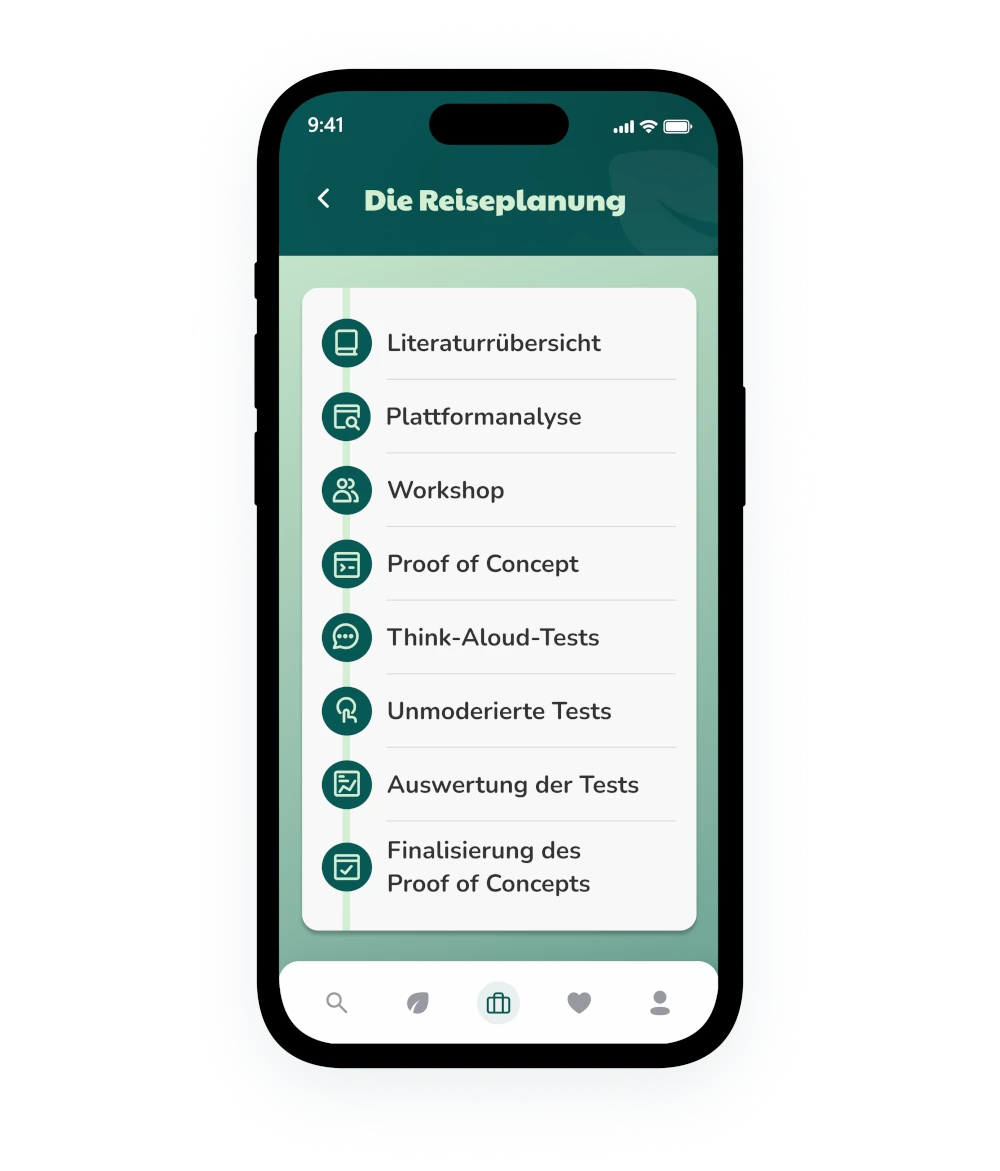
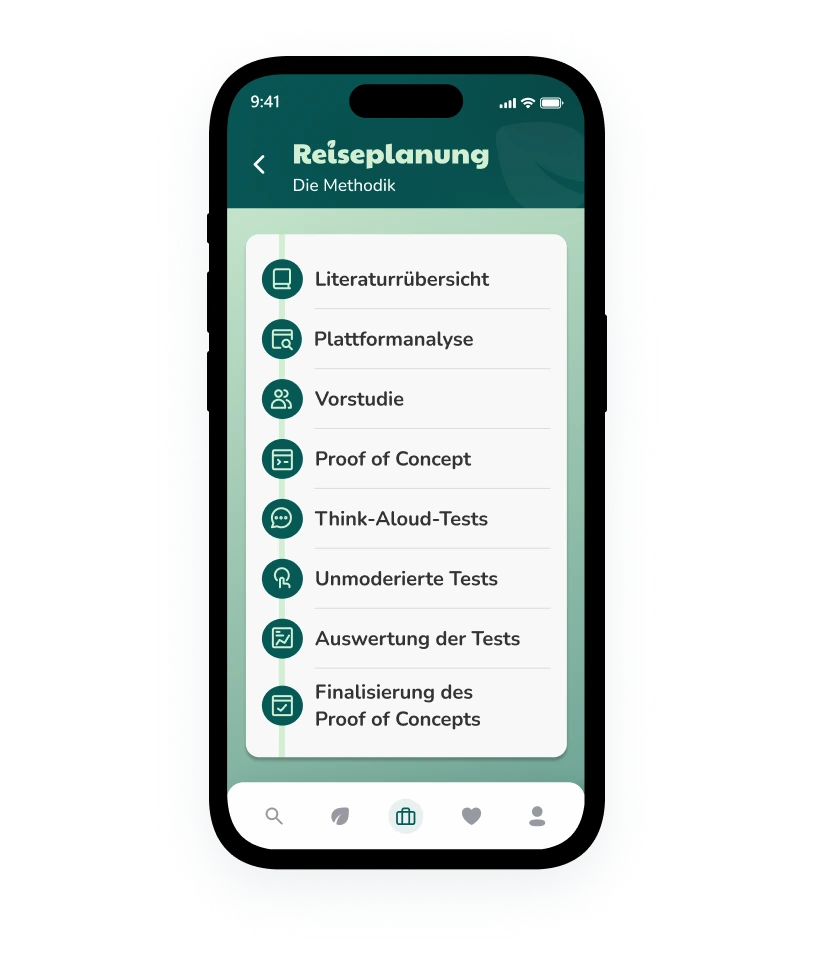
feat: increase image sizes for wegweiser project details

diff --git a/lib/data.ts b/lib/data.ts
@@ -201,6 +201,7 @@ export const getProjectsData = (theme: string, t: (key: string) => string) => {
           text: [t("wegweiser.project.text.0"), t("wegweiser.project.text.1")],
           className: "bg-[#C3E6C3]",
           image: wegweiserMockup,
+          imageSize: "66%",
           cta: {
             title: t("wegweiser.project.cta"),
             link: "https://www.figma.com/proto/S0Qw8J37oW2tqsQ4Z8zHFp/Wegweiser-Prototyp?page-id=0%3A1&node-id=1812-17049&p=f&viewport=2314%2C3786%2C0.25&t=EGEinzUgtU9q5SbF-1&scaling=contain&content-scaling=fixed&starting-point-node-id=1812%3A17049"
@@ -211,24 +212,28 @@ export const getProjectsData = (theme: string, t: (key: string) => string) => {
           text: [t("wegweiser.problem.text.0"), t("wegweiser.problem.text.1"), t("wegweiser.problem.text.2")],
           className: "bg-[#CBEBCB]",
           image: theme === "light" ? wegweiserEmissions : wegweiserEmissionsDark,
+          imageSize: "55%",
         },
         {
           title: t("wegweiser.research.title"),
           text: [t("wegweiser.research.text.0"), t("wegweiser.research.text.1"), t("wegweiser.research.text.2"), t("wegweiser.research.text.3"), t("wegweiser.research.text.4")],
           className: "bg-[#D8F0D8]",
           image: wegweiserGamification,
+          imageSize: "60%",
         },
         {
           title: t("wegweiser.concept.title"),
           text: [t("wegweiser.concept.text.0"), t("wegweiser.concept.text.1")],
           className: "bg-[#E8F6E8]",
           image: wegweiserReiseplanung,
+          imageSize: "55%",
         },
         {
           title: t("wegweiser.prototyping.title"),
           text: [t("wegweiser.prototyping.text.0"), t("wegweiser.prototyping.text.1")],
           className: "bg-[#F1F9F1]",
           image: wegweiserLofi,
+          imageSize: "60%",
           cta: {
             title: t("wegweiser.prototyping.cta"),
             link: "https://www.figma.com/proto/4S2TZpeqYYlSbFCEKR8ngC/wegweiserapp?page-id=0%3A1&node-id=72-79940&p=f&viewport=728%2C824%2C0.13&t=gSK4aPhltc7LKfwT-1&scaling=min-zoom&content-scaling=fixed&starting-point-node-id=72%3A79940"
@@ -239,12 +244,14 @@ export const getProjectsData = (theme: string, t: (key: string) => string) => {
           text: [t("wegweiser.interventions.text.0"), t("wegweiser.interventions.text.1")],
           className: "bg-[#E8F6E8]",
           image: wegweiserHifi,
+          imageSize: "60%",
         },
         {
           title: t("wegweiser.branding.title"),
           text: [t("wegweiser.branding.text.0"), t("wegweiser.branding.text.1")],
           className: "bg-[#D8F0D8]",
           image: theme === "light" ? wegweiserLogo : wegweiserLogoDark,
+          imageSize: "55%",
           cta: {
             title: t("wegweiser.branding.cta"),
             link: "https://drive.google.com/file/d/1hRpP2D-IXTZfvWAHtTCllIeyVkC0Q0RO/view"
@@ -261,12 +268,14 @@ export const getProjectsData = (theme: string, t: (key: string) => string) => {
           text: [t("wegweiser.onlineTests.text.0"), t("wegweiser.onlineTests.text.1")],
           className: "bg-[#CBEBCB]",
           image: wegweiserUseberry,
+          imageSize: "60%",
         },
         {
           title: t("wegweiser.thinkAloud.title"),
           text: [t("wegweiser.thinkAloud.text.0"), t("wegweiser.thinkAloud.text.1")],
           className: "bg-[#D8F0D8]",
           image: wegweiserExcercise,
+          imageSize: "60%",
         },
         {
           title: t("wegweiser.results.title"),
@@ -279,6 +288,7 @@ export const getProjectsData = (theme: string, t: (key: string) => string) => {
           text: [t("wegweiser.challenges.text.0"), t("wegweiser.challenges.text.1")],
           className: "bg-[#F1F9F1]",
           image: wegweiserHotel,
+          imageSize: "55%",
         },
         {
           title: "",
